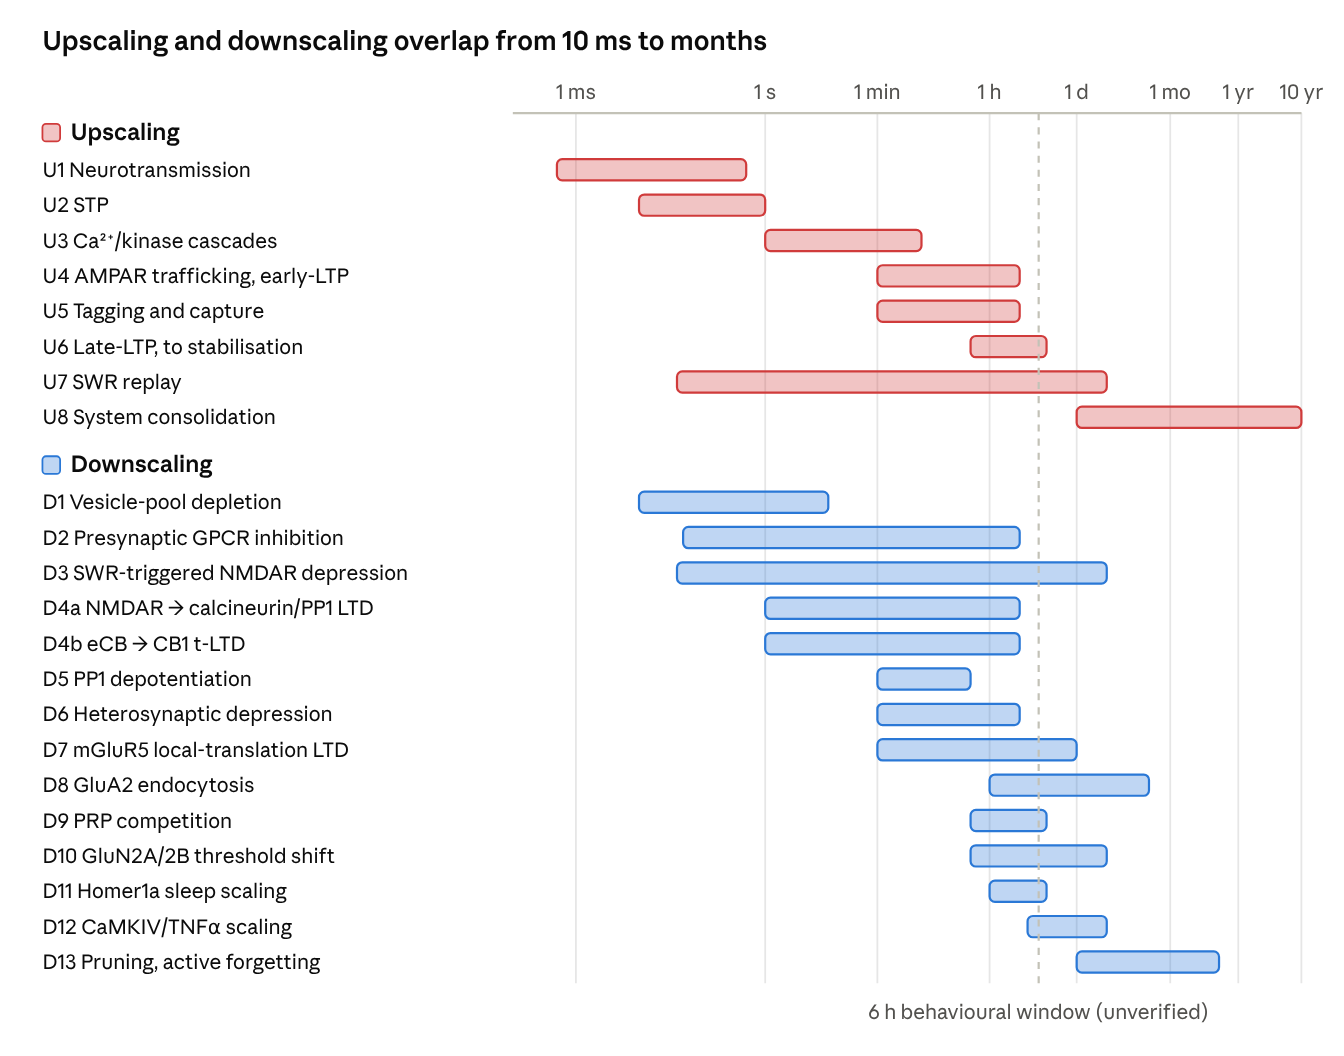
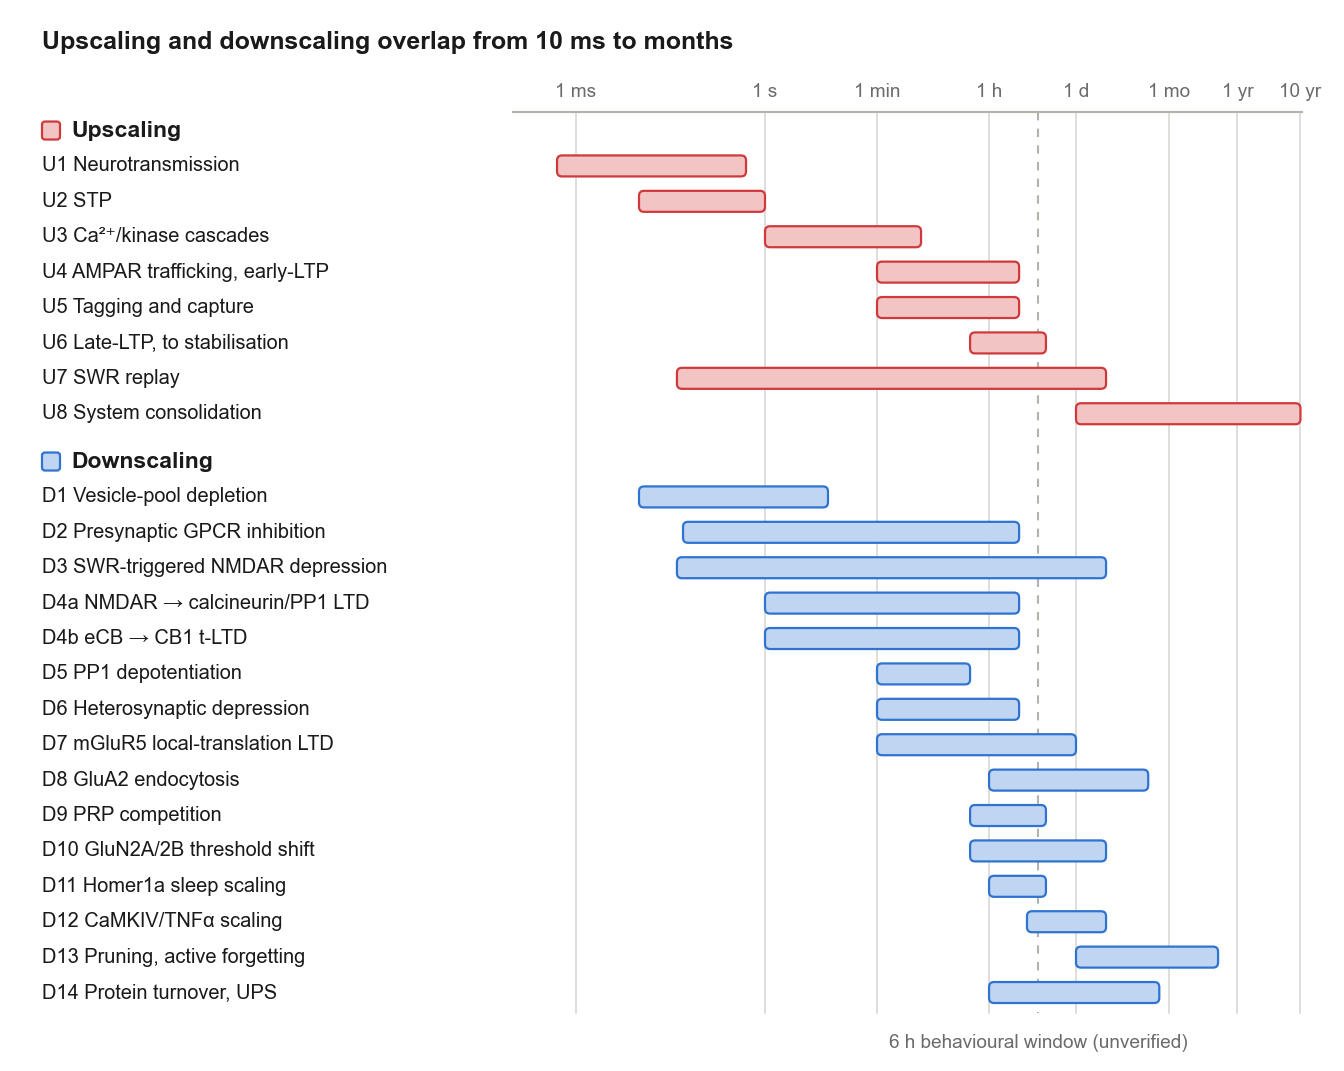
Extend model Figs. 1-2 with D14 and add their generator
make_fig_plasticity_overview.py redraws both overview figures (they were
hand-made PNGs with no script). Fig. 1 gains D14 protein turnover/UPS
(1 h to 3 wk); Fig. 2 lists D14 under PRPs limited and under weight
lowered, and notes w_cap turnover. Captions updated.

Changed region(s): [[0.0312, 0.0938, 0.3125, 0.9375], [0.4688, 0.4375, 0.9062, 1.0], [0.0312, 0.0312, 0.9688, 0.4062]]

diff --git a/make_fig_plasticity_overview.py b/make_fig_plasticity_overview.py
@@ -1,0 +1,183 @@
+"""Overview figures for docs/plasticity_up_down_model_2026-11-06.md.
+
+1. docs/figures/plasticity_timescales_all.png (Figure 1): upscaling U1-U8 and downscaling D1-D14 on one log time
+   axis. Spans are order-of-magnitude summaries of the two source documents (hippocampal_plasticity_model.md and
+   hippocampal_downscaling_mechanisms.md), not fitted values; where a source gives only "hours" or "days", the end is
+   our rounding. The dashed line is the 6 h behavioural window (personal communication, unverified).
+2. docs/figures/plasticity_combination_chain.png (Figure 2): the chain of model states with the processes that raise
+   (left) or lower (right) each one.
+Both were first drawn by hand; this script redraws them so they can be regenerated. No data, no seeds.
+Usage: python make_fig_plasticity_overview.py
+"""
+import matplotlib
+
+matplotlib.use("Agg")
+import matplotlib.pyplot as plt
+import numpy as np
+from matplotlib.patches import FancyBboxPatch
+
+MS, S, MIN, H, D, WK, MO, YR = 1e-3, 1.0, 60.0, 3600.0, 86400.0, 604800.0, 2.592e6, 3.156e7
+PT = 0.72                       # points per pixel at dpi 100
+INK, GREY, GRID = "#1A1A1A", "#6B6B6B", "#D9D8D3"
+UP_FILL, UP_EDGE = "#F2C4C4", "#D0393B"
+DN_FILL, DN_EDGE = "#BFD5F2", "#2F73D0"
+plt.rcParams["font.family"] = ["Arial", "DejaVu Sans"]
+
+UPSCALING = [
+    ("U1 Neurotransmission", 0.5 * MS, 0.5 * S),
+    ("U2 STP", 10 * MS, 1 * S),
+    ("U3 Ca²⁺/kinase cascades", 1 * S, 5 * MIN),
+    ("U4 AMPAR trafficking, early-LTP", 1 * MIN, 3 * H),
+    ("U5 Tagging and capture", 1 * MIN, 3 * H),
+    ("U6 Late-LTP, to stabilisation", 30 * MIN, 8 * H),
+    ("U7 SWR replay", 40 * MS, 3 * D),
+    ("U8 System consolidation", 1 * D, 10 * YR),
+]
+DOWNSCALING = [
+    ("D1 Vesicle-pool depletion", 10 * MS, 10 * S),
+    ("D2 Presynaptic GPCR inhibition", 50 * MS, 3 * H),
+    ("D3 SWR-triggered NMDAR depression", 40 * MS, 3 * D),
+    ("D4a NMDAR → calcineurin/PP1 LTD", 1 * S, 3 * H),
+    ("D4b eCB → CB1 t-LTD", 1 * S, 3 * H),
+    ("D5 PP1 depotentiation", 1 * MIN, 30 * MIN),
+    ("D6 Heterosynaptic depression", 1 * MIN, 3 * H),
+    ("D7 mGluR5 local-translation LTD", 1 * MIN, 1 * D),
+    ("D8 GluA2 endocytosis", 1 * H, 2 * WK),
+    ("D9 PRP competition", 30 * MIN, 8 * H),
+    ("D10 GluN2A/2B threshold shift", 30 * MIN, 3 * D),
+    ("D11 Homer1a sleep scaling", 1 * H, 8 * H),
+    ("D12 CaMKIV/TNFα scaling", 4 * H, 3 * D),
+    ("D13 Pruning, active forgetting", 1 * D, 6 * MO),
+    ("D14 Protein turnover, UPS", 1 * H, 3 * WK),
+]
+TICKS = [(MS, "1 ms"), (S, "1 s"), (MIN, "1 min"), (H, "1 h"), (D, "1 d"), (MO, "1 mo"), (YR, "1 yr"),
+         (10 * YR, "10 yr")]
+
+
+def canvas(w, h):
+    fig = plt.figure(figsize=(w / 100, h / 100), dpi=100)
+    ax = fig.add_axes([0, 0, 1, 1])
+    ax.set_xlim(0, w)
+    ax.set_ylim(h, 0)
+    ax.axis("off")
+    return fig, ax
+
+
+def text(ax, x, y, s, px, colour=INK, weight="normal", ha="left"):
+    ax.text(x, y, s, fontsize=px * PT, color=colour, fontweight=weight, ha=ha, va="center")
+
+
+def box(ax, x0, y0, x1, y1, fill, edge, lw=1.6, r=12):
+    ax.add_patch(FancyBboxPatch((x0, y0), x1 - x0, y1 - y0, boxstyle=f"round,pad=0,rounding_size={r}",
+                                facecolor=fill, edgecolor=edge, linewidth=lw))
+
+
+def timescales(out="docs/figures/plasticity_timescales_all.png"):
+    w, row, x_label = 1344, 35.4, 42
+    x_of = lambda t: 765 + 63 * np.log10(t)      # 63 px per decade, 1 s at x = 765
+    top = 150
+    h = int(top + row * (len(UPSCALING) + len(DOWNSCALING) + 1.35) + 60)
+    fig, ax = canvas(w, h)
+    text(ax, x_label, 42, "Upscaling and downscaling overlap from 10 ms to months", 25, weight="bold")
+    y_bottom = h - 58
+    ax.plot([513, 1302], [112, 112], color="#B4B2A9", lw=1.5)
+    for t, lab in TICKS:
+        ax.plot([x_of(t)] * 2, [112, y_bottom], color=GRID, lw=1.2, zorder=0)
+        text(ax, x_of(t), 92, lab, 19, colour=GREY, ha="center")
+    x6 = x_of(6 * H)
+    ax.plot([x6, x6], [112, y_bottom], color="#B4B2A9", lw=1.5, ls=(0, (4, 4)), zorder=1)
+    text(ax, x6, y_bottom + 30, "6 h behavioural window (unverified)", 19, colour=GREY, ha="center")
+
+    y = top - row * 0.55
+    for title, rows, fill, edge in (("Upscaling", UPSCALING, UP_FILL, UP_EDGE),
+                                    ("Downscaling", DOWNSCALING, DN_FILL, DN_EDGE)):
+        box(ax, x_label, y - 9, x_label + 18, y + 9, fill, edge, lw=1.6, r=3)
+        text(ax, x_label + 29, y, title, 23, weight="bold")
+        y += row
+        for label, a, b in rows:
+            text(ax, x_label, y, label, 20)
+            box(ax, x_of(a), y - 10.5, x_of(b), y + 10.5, fill, edge, lw=1.6, r=5)
+            y += row
+        y += row * 0.35
+    fig.savefig(out, dpi=100, facecolor="white")
+    plt.close(fig)
+    print(f"wrote {out}")
+
+
+LEFT = [
+    ("More release", ["U2 STP: u rises per spike"], ["Decays with τ_fac"]),
+    ("Calcium signal", ["U1 NMDAR opens on depolarisation", "U3 Ca²⁺/kinase cascades"], []),
+    ("Tag set", ["U5 Coincident dendritic spike", "U4 AMPAR trafficking, early-LTP"], []),
+    ("PRP supply", ["U5 Strong input, dopamine D1/D5", "U6 Protein synthesis on"], []),
+    ("Weight stored", ["U5, U6 Capture, late-LTP", "U7 Replay drives capture"], []),
+]
+MIDDLE = [
+    ("Release per spike", ["A = u · x"], ["Verified in NEURON"]),
+    ("Segment signal", ["V_seg, then g_Ca(V_seg)"], ["Planned, S4–S5"]),
+    ("Tag T", ["Lasts under 3 h unless captured"], ["Planned, S4"]),
+    ("Capture gate", ["h(P), from the PRP pool P"], ["Planned, S4"]),
+    ("Captured weight w_cap", ["Does not decay with τ_tag", "Turns over with τ_turn (D14)"],
+     ["Planned, S4; turnover proposed"]),
+]
+RIGHT = [
+    ("Less release", ["D1 Vesicle depletion", "D2 Presynaptic GPCR (A1R)", "D4b Endocannabinoid t-LTD"], []),
+    ("Weaker or shifted signal", ["D4a NMDAR → phosphatase LTD", "D10 GluN2A/2B threshold shift"], []),
+    ("Tag lost", ["D8 GluA2 removal (passive)", "D5 PP1 depotentiation (reset)"], []),
+    ("PRPs limited", ["D9 Competition for PRPs", "D7 mGluR5 local translation",
+                      "D14 Degraded constraint (UPS)"], []),
+    ("Weight lowered or removed", ["D3 Ripple-triggered depression", "D6 Heterosynaptic depression",
+                                   "D11 Homer1a sleep scaling", "D12 CaMKIV/TNFα scaling",
+                                   "D13 Pruning, forgetting", "D14 Protein turnover (UPS)"], []),
+]
+
+
+def chain(out="docs/figures/plasticity_combination_chain.png"):
+    w, line = 1344, 28
+    cols = {"L": (42, 414), "M": (478, 866), "R": (930, 1302)}
+    heights = [44 + line * max(len(a) + len(b) for _, a, b in (LEFT[i], MIDDLE[i], RIGHT[i])) + 16
+               for i in range(len(LEFT))]
+    gap, y0 = 42, 134
+    h = int(y0 + sum(heights) + gap * (len(heights) - 1) + 42 + 86 + 48)
+    fig, ax = canvas(w, h)
+    text(ax, 42, 44, "Every level of the synapse has its own upward and downward processes", 25, weight="bold")
+    for key, lab in (("L", "Upscaling"), ("M", "Model state"), ("R", "Downscaling")):
+        x0, x1 = cols[key]
+        text(ax, (x0 + x1) / 2, 98, lab, 22, weight="bold", ha="center")
+    arrow = dict(arrowstyle="-|>", color="#B4B2A9", lw=1.6, mutation_scale=16, shrinkA=0, shrinkB=0)
+
+    y = y0
+    for i, hgt in enumerate(heights):
+        yc = y + hgt / 2
+        for key, (title, body, note), fill, edge, lw in (
+                ("L", LEFT[i], "#FDF3F2", UP_EDGE, 1.8),
+                ("M", MIDDLE[i], "#E3F3E0" if i == 0 else "#FAFAF8", "#2DA52D" if i == 0 else "#C8C6BE",
+                 3.0 if i == 0 else 1.8),
+                ("R", RIGHT[i], "#EEF4FD", DN_EDGE, 1.8)):
+            x0, x1 = cols[key]
+            box(ax, x0, y, x1, y + hgt, fill, edge, lw=lw)
+            lines = [(title, INK, "bold")] + [(s, INK, "normal") for s in body] + [(s, GREY, "normal") for s in note]
+            if key == "M":
+                ty = yc - line * (len(lines) - 1) / 2
+                for k, (s, c, wt) in enumerate(lines):
+                    text(ax, (x0 + x1) / 2, ty + k * line, s, 22 if k == 0 else 20, colour=c, weight=wt,
+                         ha="center")
+            else:
+                for k, (s, c, wt) in enumerate(lines):
+                    text(ax, x0 + 22, y + 36 + k * line, s, 22 if k == 0 else 20, colour=c, weight=wt)
+        ax.annotate("", xy=(cols["M"][0], yc), xytext=(cols["L"][1], yc), arrowprops=arrow)
+        ax.annotate("", xy=(cols["M"][1], yc), xytext=(cols["R"][0], yc), arrowprops=arrow)
+        y_next = y + hgt + gap
+        ax.annotate("", xy=(672, y_next if i < len(heights) - 1 else y + hgt + 42), xytext=(672, y + hgt),
+                    arrowprops=arrow)
+        y = y_next
+    yb = y - gap + 42
+    box(ax, 372, yb, 972, yb + 86, "#EDEDEB", "#C8C6BE", lw=1.8)
+    text(ax, 672, yb + 43, "Next spike: stored weight × release", 22, weight="bold", ha="center")
+    fig.savefig(out, dpi=100, facecolor="white")
+    plt.close(fig)
+    print(f"wrote {out}")
+
+
+if __name__ == "__main__":
+    timescales()
+    chain()

diff --git a/docs/plasticity_up_down_model_2026-11-06.md b/docs/plasticity_up_down_model_2026-11-06.md
@@ -73,9 +73,9 @@ Cell and pathway names match the [status report of November 2026](report_2026-11
 
 The processes run from milliseconds to years, and they overlap instead of handing off in sequence. Upscaling and downscaling coexist from about 10 ms to months, so no level of the synapse has only one direction (Figure 1).
 
-![All upscaling and downscaling processes on one logarithmic time axis, 8 upscaling (red) and 14 downscaling (blue)](figures/plasticity_timescales_all.png)
+![All upscaling and downscaling processes on one logarithmic time axis, 8 upscaling (red) and 15 downscaling (blue)](figures/plasticity_timescales_all.png)
 
-**Figure 1.** All upscaling and downscaling processes on one logarithmic time axis: 8 upscaling (red) and 14 downscaling (blue). D14 (protein turnover) was added after this figure was drawn and is not shown. Bars are order-of-magnitude summaries of the two source documents, not fitted values. Where a source gives only "hours" or "days", the bar's end is our rounding.
+**Figure 1.** All upscaling and downscaling processes on one logarithmic time axis: 8 upscaling (red) and 15 downscaling (blue). Bars are order-of-magnitude summaries of the two source documents, not fitted values. Where a source gives only "hours" or "days", the bar's end is our rounding. Figures 1 and 2 are drawn by `make_fig_plasticity_overview.py`.
 
 **Two meanings of "consolidation".** This document always says which one it means.
 
@@ -291,7 +291,7 @@ Each process acts on one term of a single chain, so their effects can be located
 
 ![The chain of model states, with upscaling (red) and downscaling (blue) processes acting on each](figures/plasticity_combination_chain.png)
 
-**Figure 2.** The chain of model states, with upscaling (red) and downscaling (blue) processes acting on each. Read down the middle for the chain, and across each row for what raises or lowers that state. Only the top state runs in NEURON today. D14, added later, is not drawn: it acts on w_cap and on P.
+**Figure 2.** The chain of model states, with upscaling (red) and downscaling (blue) processes acting on each. Read down the middle for the chain, and across each row for what raises or lowers that state. Only the top state runs in NEURON today. D14 appears twice, because it acts on both P and w_cap.
 
 Written as one expression, the amplitude of spike n is:
 
